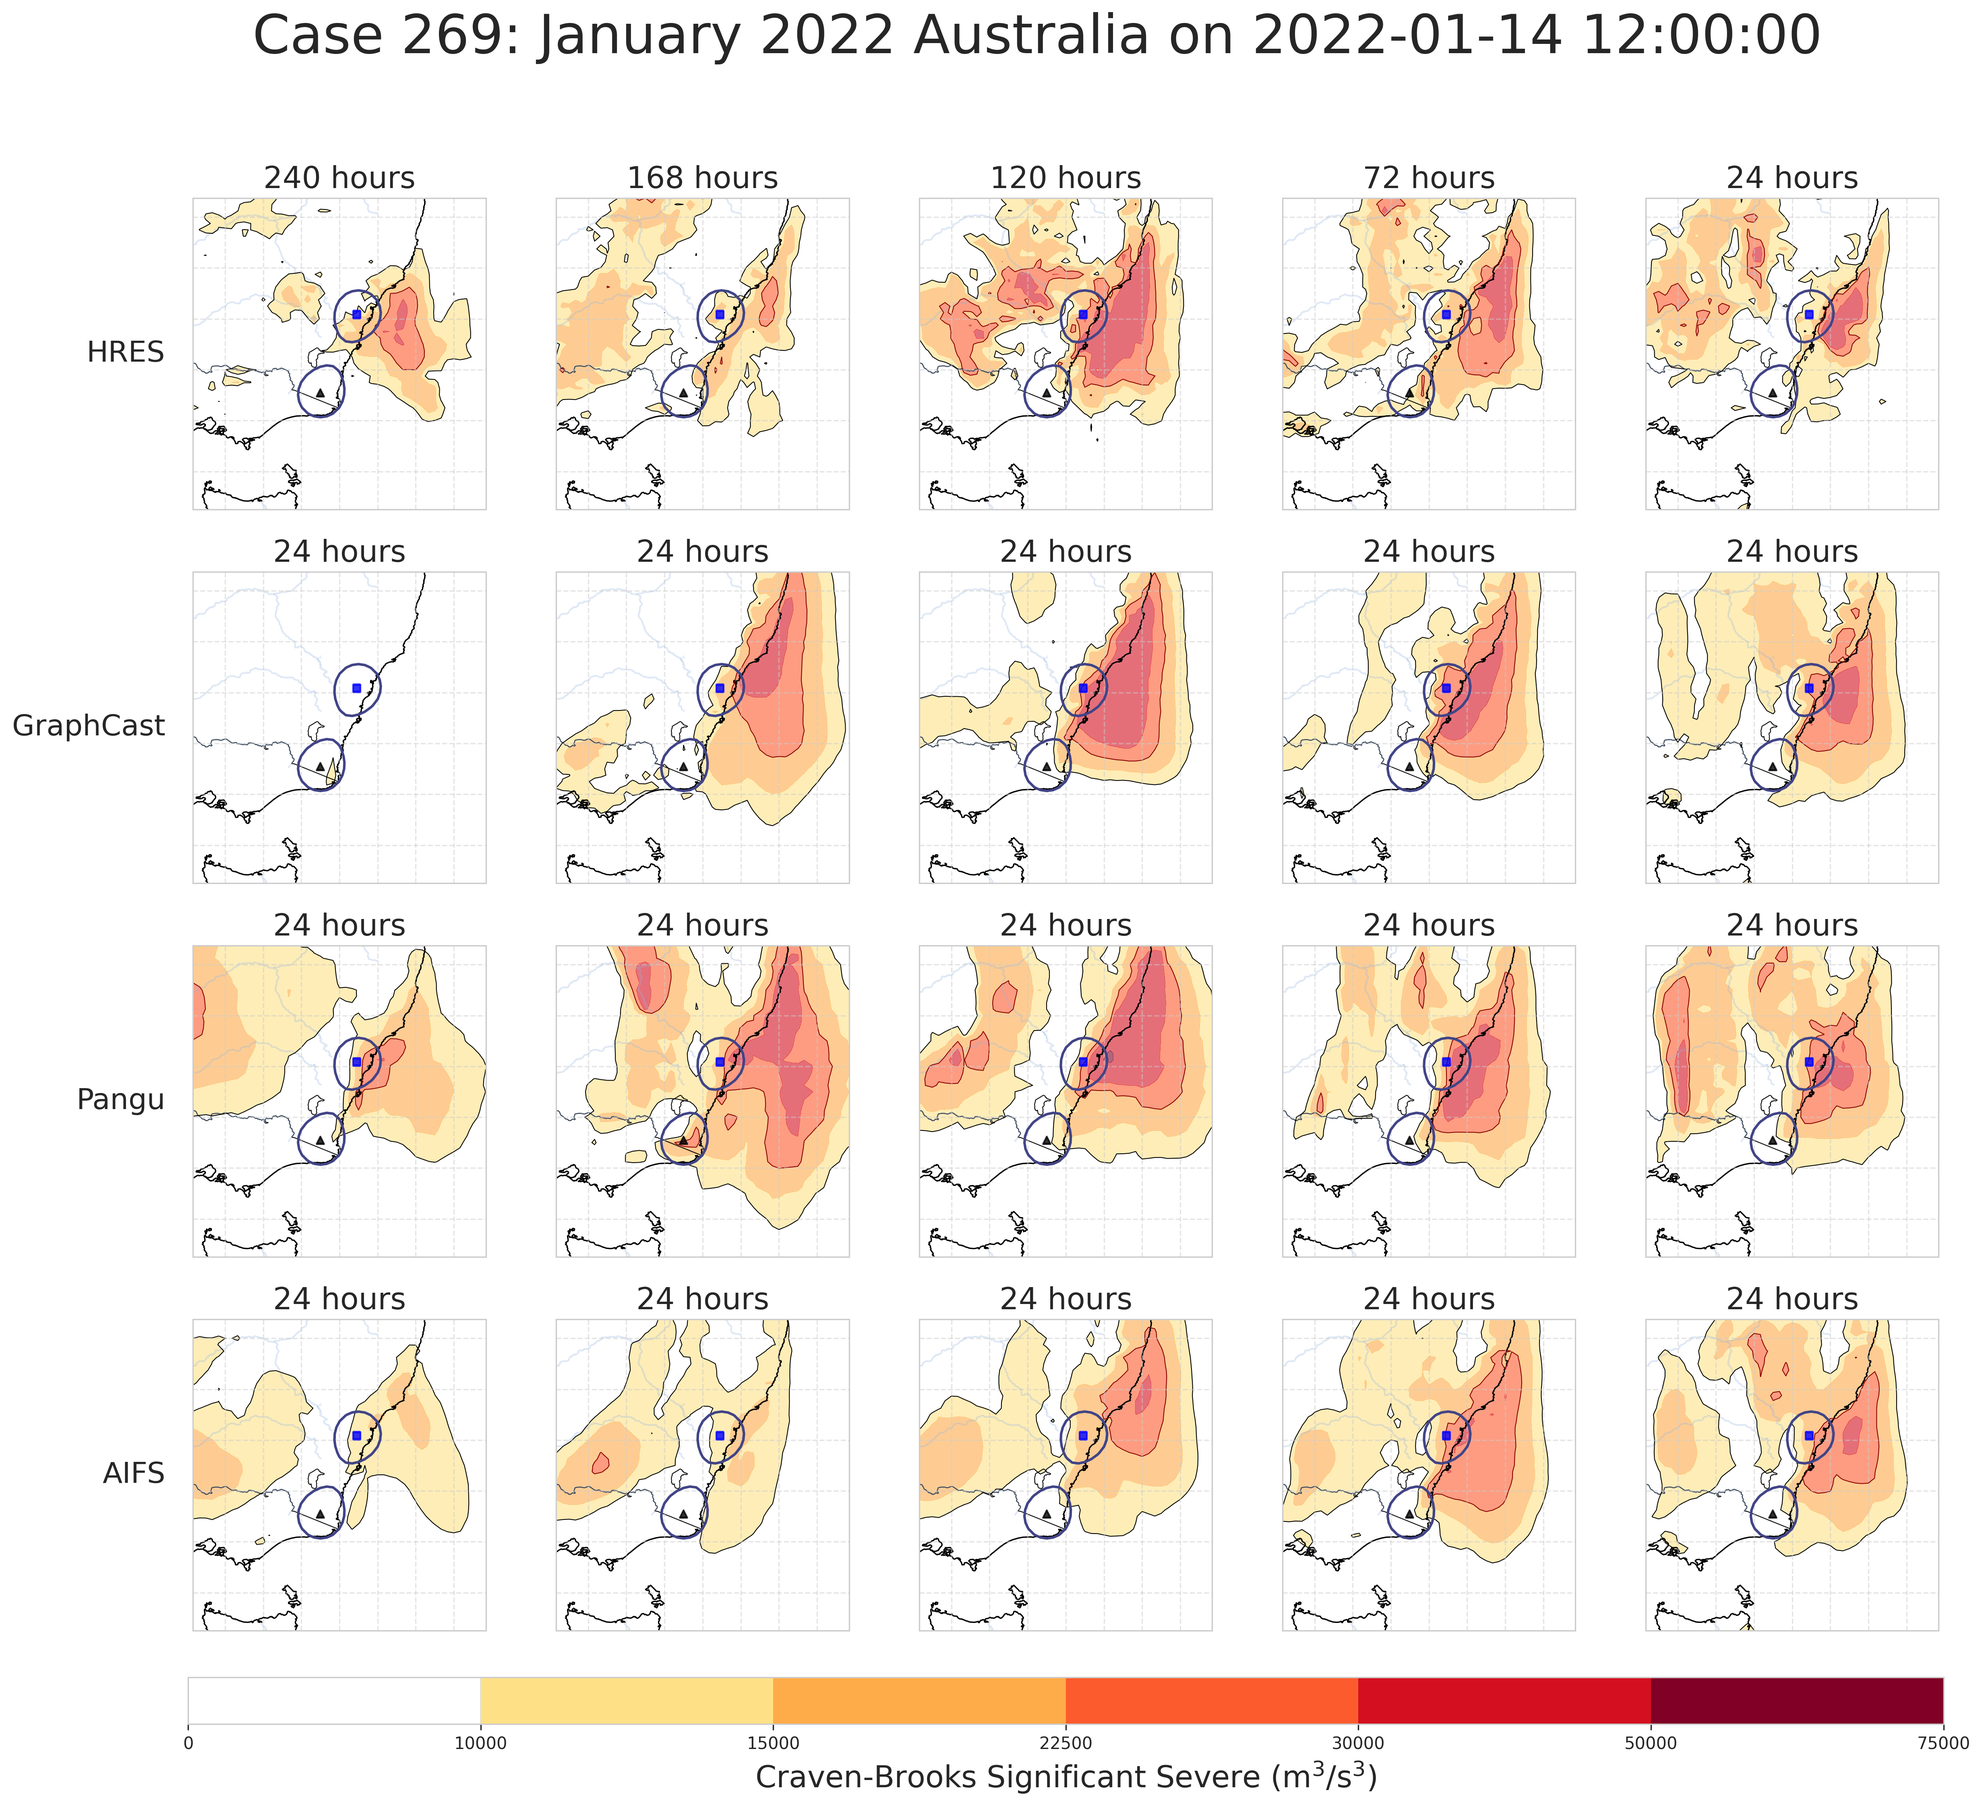
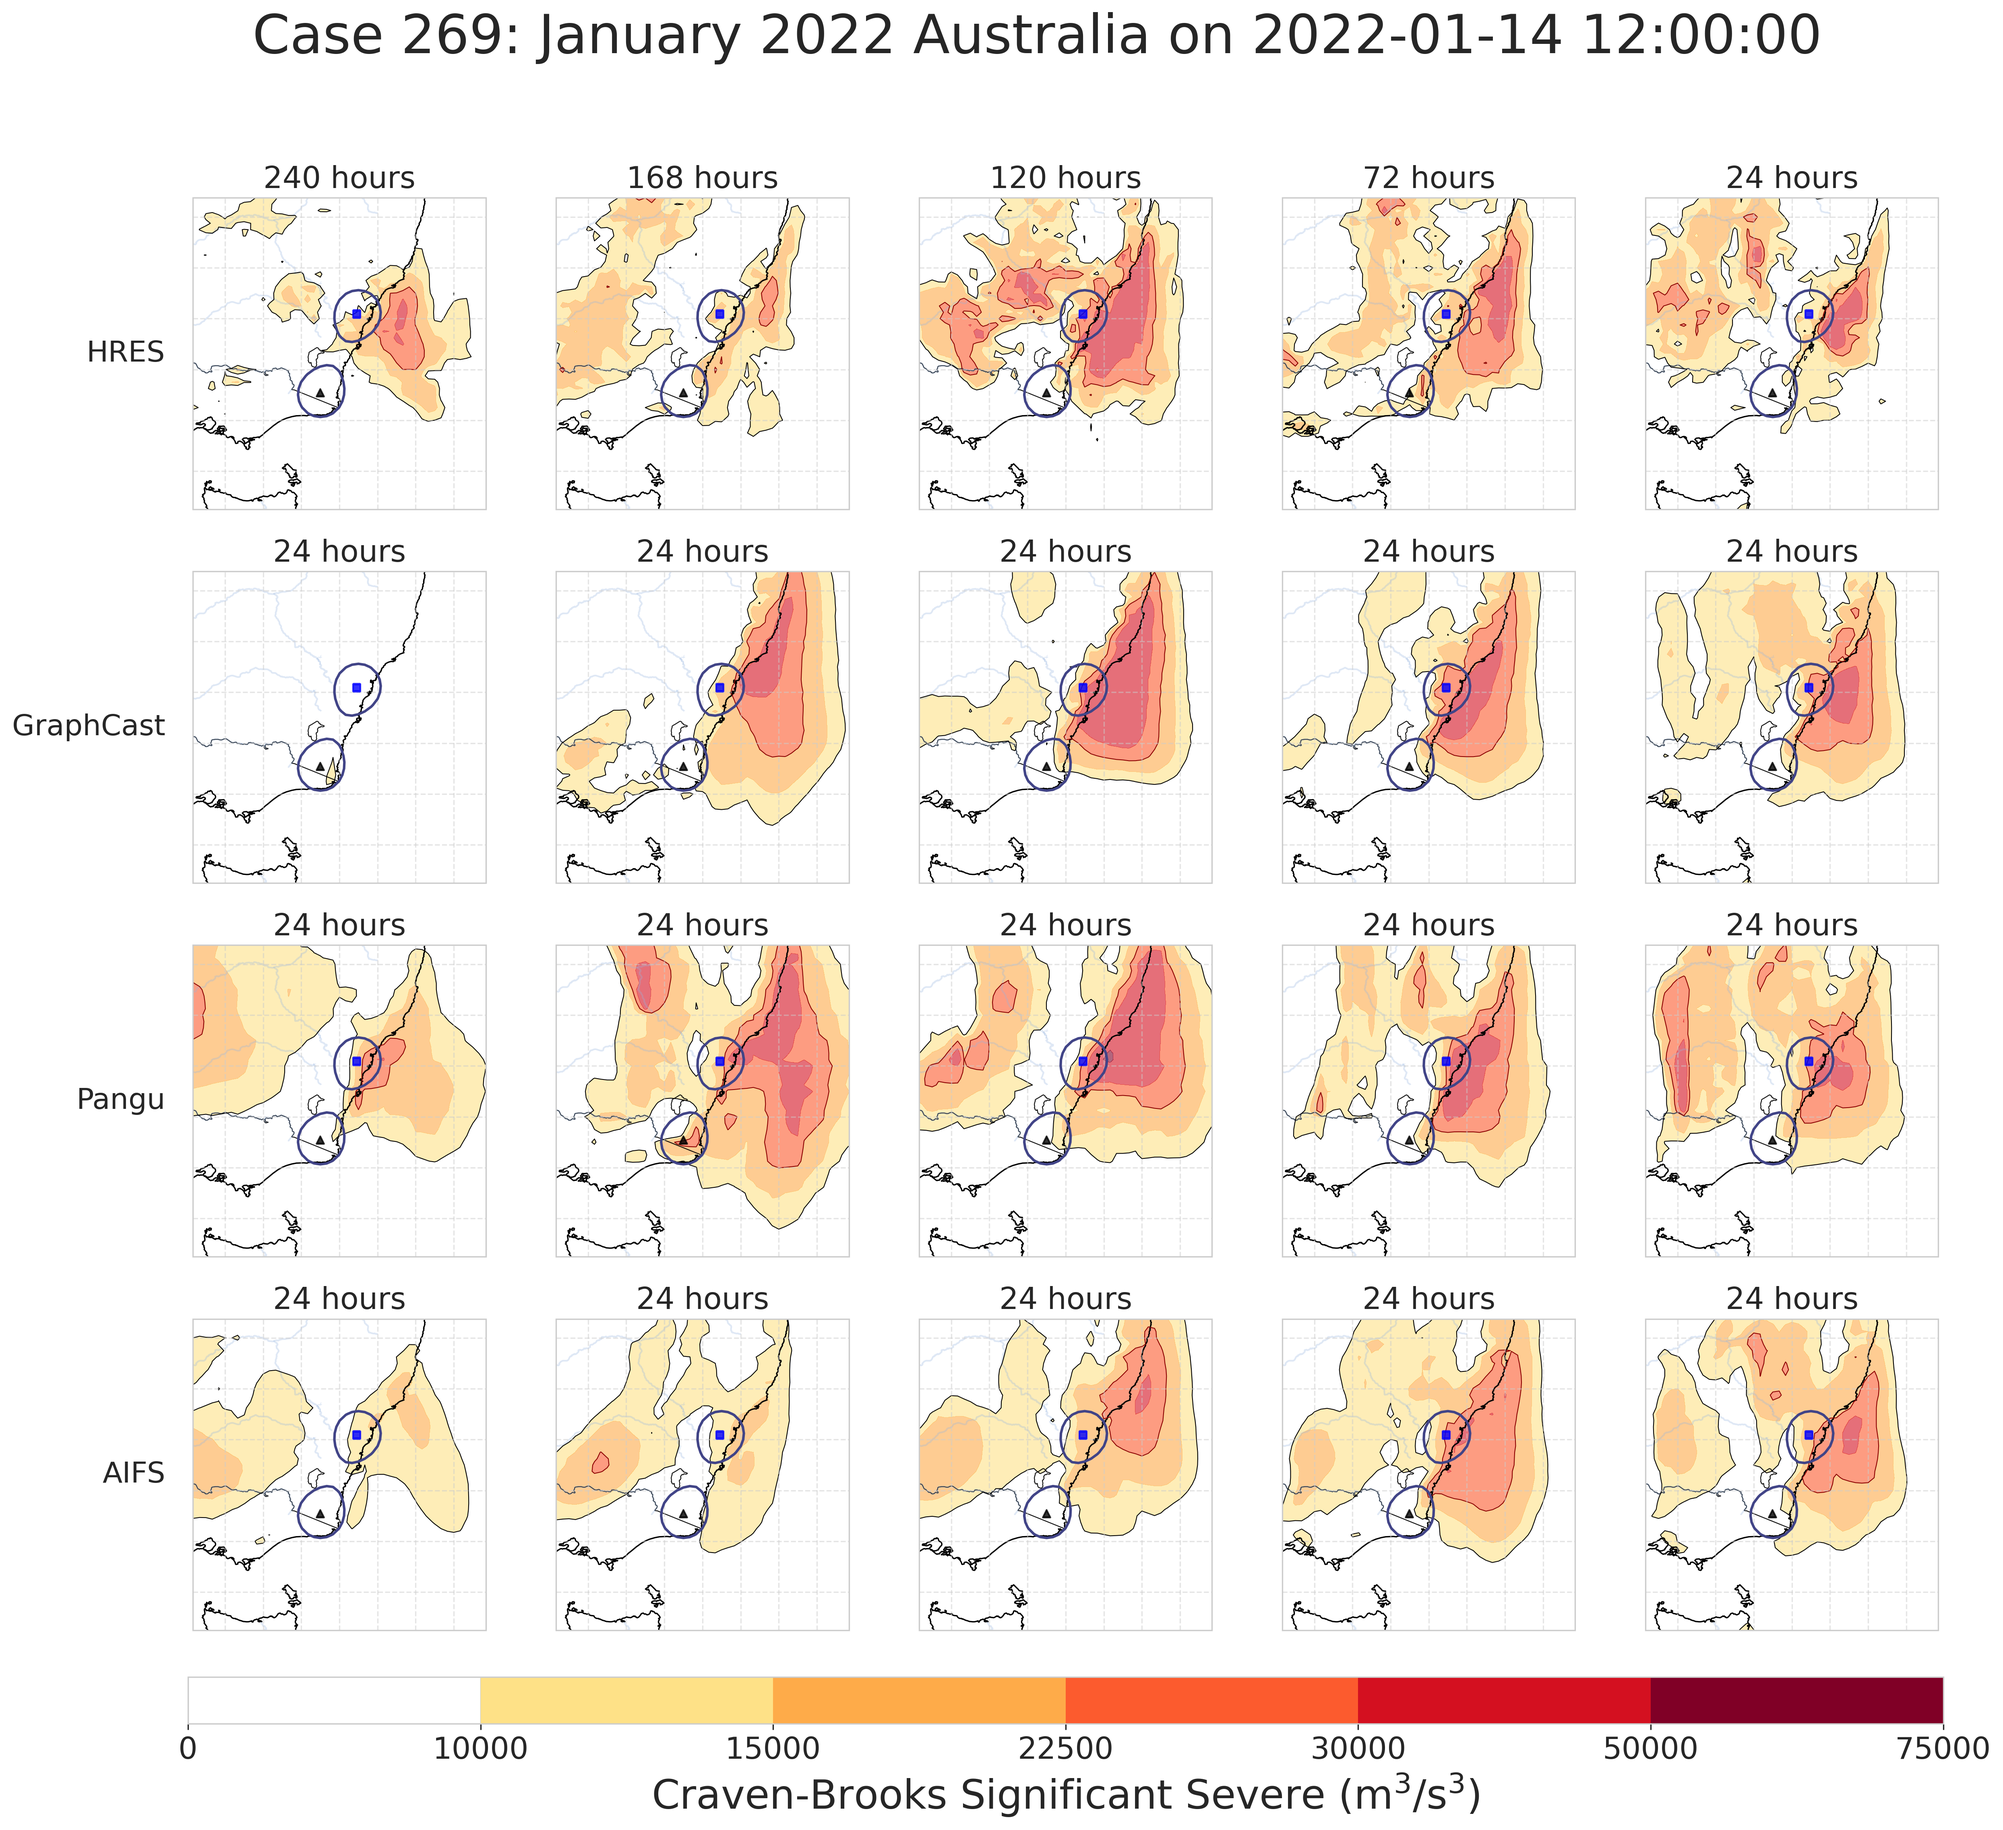
updated CBSS plots for the talk

Changed region(s): [[0.2176, 0.0936, 0.9947, 0.9984], [0.0, 0.0936, 0.2487, 0.9048], [0.1243, 0.0, 0.9325, 0.0312]]

diff --git a/src/plots/plot_all_cbss_pph.py b/src/plots/plot_all_cbss_pph.py
@@ -155,7 +155,7 @@ if __name__ == "__main__":
     ewb_cases = ewb_cases.select_cases("event_type", "severe_convection")
 
     # uncomment this for debugging and faster plotting
-    ewb_cases = ewb_cases.select_cases("case_id_number", [316, 269])
+    # ewb_cases = ewb_cases.select_cases("case_id_number", [316, 269])
 
     # build out all of the expected data to evalate the case (we need this so we can plot
     # the LSR reports)
@@ -187,13 +187,13 @@ if __name__ == "__main__":
     print("Loading in the graphics objects")
     # load in the graphics objects
     print("Loading in the HRES graphics object")
-    hres_graphics = pickle.load(open(basepath + "saved_data/hres_graphics_paper.pkl", "rb"))
+    hres_graphics = pickle.load(open(basepath + "saved_data/hres_graphics.pkl", "rb"))
     print("Loading in the GraphCast graphics object")
-    bb_graphcast_graphics = pickle.load(open(basepath + "saved_data/gc_bb_graphics_paper.pkl", "rb"))
+    bb_graphcast_graphics = pickle.load(open(basepath + "saved_data/gc_bb_graphics.pkl", "rb"))
     print("Loading in the Pangu graphics object")
-    bb_pangu_graphics = pickle.load(open(basepath + "saved_data/pang_bb_graphics_paper.pkl", "rb"))
+    bb_pangu_graphics = pickle.load(open(basepath + "saved_data/pang_bb_graphics.pkl", "rb"))
     print("Loading in the AIFS graphics object")
-    bb_aifs_graphics = pickle.load(open(basepath + "saved_data/aifs_bb_graphics_paper.pkl", "rb"))
+    bb_aifs_graphics = pickle.load(open(basepath + "saved_data/aifs_bb_graphics.pkl", "rb"))
 
     lead_times_to_plot = [10*24, 7*24, 5*24, 3*24, 24]
 
@@ -300,8 +300,8 @@ if __name__ == "__main__":
         # Add horizontal colorbar below bottom row
         cbar = fig.colorbar(sm, cax=cbar_ax, orientation='horizontal')
         cbar.ax.set_xticks(levels)
-        cbar.ax.tick_params(labelsize=24)
-        cbar.set_label(r"Craven-Brooks Significant Severe (m$^{3}$/s$^{3}$)", fontsize=18)
+        cbar.ax.tick_params(labelsize=18)
+        cbar.set_label(r"Craven-Brooks Significant Severe (m$^{3}$/s$^{3}$)", fontsize=24)
 
 
         # make the overall title and save it        
